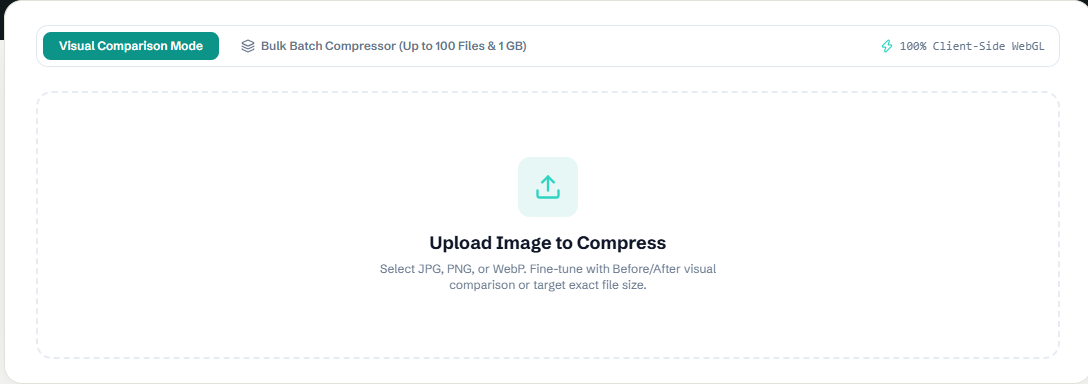
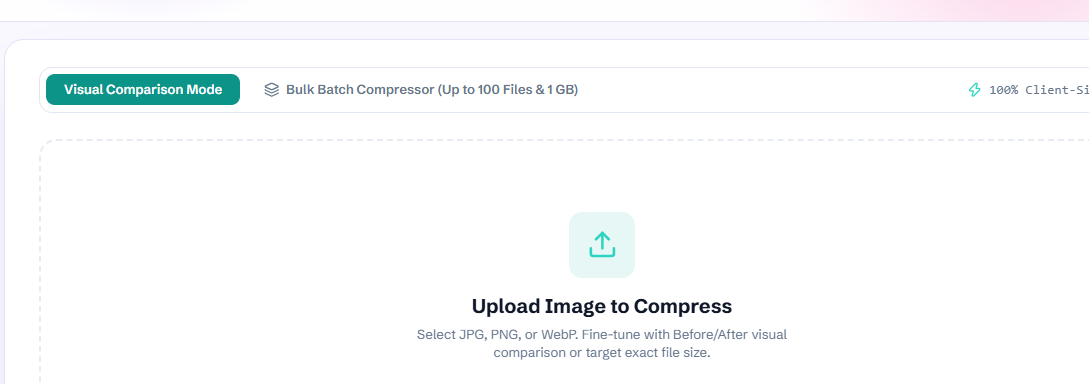
Use real Unsplash tech photos across services, blog, CTA and about; retake hero tool screenshots in new theme

diff --git a/src/app/(public)/page.tsx b/src/app/(public)/page.tsx
@@ -259,10 +259,10 @@ export default async function HomePage() {
               <img src="/shots/json.png" alt="The JSON formatter tool showing formatted output" width={1088} height={515} fetchPriority="high" className="w-full" />
             </div>
             <div className="zq-float absolute -left-4 bottom-8 hidden w-64 overflow-hidden rounded-xl border border-[#1B1340]/15 bg-white shadow-[0_24px_60px_-24px_rgba(27,19,64,.5)] lg:block" style={{ ["--r" as string]: "-3deg" }}>
-              <img src="/shots/compress.png" alt="The image compressor tool" width={1088} height={384} loading="lazy" className="w-full" />
+              <img src="/shots/compress.png" alt="The image compressor tool" width={1088} height={384} loading="lazy" className="h-40 w-full object-cover object-top" />
             </div>
             <div className="zq-float absolute -right-4 top-16 hidden w-56 overflow-hidden rounded-xl border border-[#1B1340]/15 bg-white shadow-[0_24px_60px_-24px_rgba(27,19,64,.5)] lg:block" style={{ ["--r" as string]: "3deg", ["--d" as string]: "-2s" }}>
-              <img src="/shots/qr.png" alt="The QR code generator tool" width={1088} height={640} loading="lazy" className="w-full" />
+              <img src="/shots/qr.png" alt="The QR code generator tool" width={1088} height={640} loading="lazy" className="h-40 w-full object-cover object-top" />
             </div>
           </div>
         </div>
@@ -302,7 +302,7 @@ export default async function HomePage() {
               return (
                 <Reveal as="li" key={hub.slug} delay={(i % 3) * 90}>
                   <Link href={`/services/${hub.slug}`} className="zq-card group relative flex h-full flex-col overflow-hidden">
-                    <TechScene techs={GROUP_TECH[hub.group] || ["React", "Node.js"]} className="h-40 w-full !rounded-none" />
+                    <TechScene group={hub.group} className="h-40 w-full !rounded-none" />
                     <div className="flex flex-1 flex-col p-6 -mt-10 relative">
                     <span className={`zq-chip ${accent.chip} ring-4 ring-white`}>
                       <Icon className="w-6 h-6" aria-hidden="true" />
@@ -355,7 +355,7 @@ export default async function HomePage() {
       <section aria-labelledby="why-heading" className="zq-section">
         <div className="container mx-auto max-w-6xl px-4 sm:px-6 lg:px-8 grid gap-10 lg:grid-cols-2 items-center">
           <Reveal>
-            <TechScene techs={["Next.js", "TypeScript", "Tailwind CSS", "Cloudflare", "Docker"]} className="h-72 w-full lg:h-[26rem]" />
+            <TechScene photo="/photos/u-dev.jpg" techs={["Next.js", "TypeScript", "Tailwind CSS", "Cloudflare", "Docker"]} className="h-72 w-full lg:h-[26rem]" />
           </Reveal>
           <div>
             <h2 id="why-heading" className="zq-display zq-h2">
@@ -438,7 +438,7 @@ export default async function HomePage() {
               </h2>
               <p className="mt-4 text-[17px] leading-relaxed zq-on-dark-muted max-w-md">Founders, growing companies and teams that need extra hands. We start with a call, a plain-language plan and a fixed first step.</p>
             </div>
-            <TechScene techs={["React", "Node.js", "Python", "Docker", "PostgreSQL"]} className="h-56 w-full lg:h-72" />
+            <TechScene photo="/photos/u-team.jpg" techs={["React", "Node.js", "Python", "Docker", "PostgreSQL"]} className="h-56 w-full lg:h-72" />
           </div>
           <ul className="mt-10 grid grid-cols-1 md:grid-cols-3 gap-6">
             {AUDIENCES.map((a, i) => {
@@ -467,8 +467,9 @@ export default async function HomePage() {
       {/* 6b. Apps band with parallax photo */}
       <section aria-labelledby="apps-heading" className="relative isolate overflow-hidden text-white">
         <div aria-hidden="true" className="absolute inset-0 -z-10">
-          <div className="absolute inset-0 bg-gradient-to-br from-[#1B1340] via-[#2D1B69] to-[#5B21B6]" />
-          <OrbRing className="absolute -right-20 -top-16 w-[420px] opacity-60" />
+          {/* eslint-disable-next-line @next/next/no-img-element */}
+          <img src="/photos/u-server.jpg" alt="" width={1200} height={800} loading="lazy" className="absolute inset-0 h-full w-full object-cover" />
+          <div className="absolute inset-0 bg-gradient-to-br from-[#1B1340]/90 via-[#2D1B69]/80 to-[#5B21B6]/70" />
         </div>
         <div className="container mx-auto max-w-6xl px-4 sm:px-6 lg:px-8 zq-section grid gap-10 lg:grid-cols-[1.1fr_0.9fr] items-center">
           <div>
@@ -481,7 +482,7 @@ export default async function HomePage() {
             </a>
           </div>
           <Reveal>
-            <TechScene techs={["Kotlin", "Swift", "Flutter", "React Native"]} className="h-64 w-full" />
+            <TechScene photo="/photos/u-app.jpg" techs={["Kotlin", "Swift", "Flutter", "React Native"]} className="h-64 w-full" />
           </Reveal>
         </div>
       </section>

diff --git a/src/components/kit/tech-scene.tsx b/src/components/kit/tech-scene.tsx
@@ -4,6 +4,19 @@ import { TechLogo } from "@/components/kit/tech-logo";
 
 /* Code-drawn "tech scene" images: dark violet board, grid, glow, and glass tiles carrying real technology logos. */
 
+export const GROUP_IMG: Record<string, string> = {
+  "Game Development": "u-game",
+  "App Development": "u-phone",
+  "Website Development": "u-web",
+  "Custom Software": "u-dev",
+  "Digital Marketing": "u-analytics",
+  "AI & NLP Development": "u-ai",
+  "NFT Development": "u-network",
+  "Staff Augmentation": "u-team",
+  "ERP & CRM Development": "u-laptop",
+};
+const BLOG_IMGS = ["u-dev", "u-office", "u-analytics", "u-laptop", "u-server", "u-network", "u-app", "u-web", "u-aichip", "u-team"];
+
 export const GROUP_TECH: Record<string, string[]> = {
   "Game Development": ["Unity", "Unreal Engine", "Godot", "Solidity"],
   "App Development": ["Kotlin", "Swift", "Flutter", "React Native"],
@@ -27,11 +40,20 @@ const SLOTS: { x: number; y: number; r: number }[] = [
 const BOARD = "relative isolate overflow-hidden bg-gradient-to-br from-[#1B1340] via-[#2D1B69] to-[#5B21B6]";
 const GRID = { backgroundImage: "linear-gradient(rgba(255,255,255,.07) 1px, transparent 1px), linear-gradient(90deg, rgba(255,255,255,.07) 1px, transparent 1px)", backgroundSize: "28px 28px" };
 
-export function TechScene({ techs, className = "", label }: { techs: string[]; className?: string; label?: string }) {
-  const items = techs.slice(0, 5);
+export function TechScene({ techs, group, photo, className = "", label }: { techs?: string[]; group?: string; photo?: string; className?: string; label?: string }) {
+  const list = techs || (group ? GROUP_TECH[group] : undefined) || ["React", "Node.js", "Python"];
+  const img = photo || (group && GROUP_IMG[group] ? `/photos/${GROUP_IMG[group]}.jpg` : undefined);
+  const items = list.slice(0, 5);
   return (
     <div className={`${BOARD} rounded-xl ${className}`} role="img" aria-label={label || `Technologies: ${items.join(", ")}`}>
-      <div aria-hidden="true" className="absolute inset-0 -z-10 opacity-80" style={GRID} />
+      {img && (
+        <>
+          {/* eslint-disable-next-line @next/next/no-img-element */}
+          <img src={img} alt="" width={1200} height={800} loading="lazy" className="absolute inset-0 -z-20 h-full w-full object-cover" />
+          <div aria-hidden="true" className="absolute inset-0 -z-[15] bg-gradient-to-br from-[#1B1340]/85 via-[#2D1B69]/60 to-[#7C3AED]/40" />
+        </>
+      )}
+      <div aria-hidden="true" className="absolute inset-0 -z-10 opacity-60" style={GRID} />
       <div aria-hidden="true" className="absolute -left-10 -top-16 -z-10 h-64 w-64 rounded-full bg-[#8B5CF6]/50 blur-3xl" />
       <div aria-hidden="true" className="absolute -bottom-20 -right-10 -z-10 h-64 w-64 rounded-full bg-[#F472B6]/40 blur-3xl" />
       <svg aria-hidden="true" viewBox="0 0 100 100" preserveAspectRatio="none" className="absolute inset-0 -z-10 h-full w-full">
@@ -77,11 +99,15 @@ export function BlogCover({ seed, category = "", className = "" }: { seed: strin
   const Icon = (CAT_ICON.find(([re]) => re.test(category)) || [null, Code2])[1];
   const pts = Array.from({ length: 5 }, (_, i) => ({ x: 12 + i * 19 + ((h >> (i * 3)) % 8), y: 22 + ((h >> (i * 2 + 1)) % 46) }));
   const hue = h % 3;
+  const photo = `/photos/${BLOG_IMGS[h % BLOG_IMGS.length]}.jpg`;
   const from = ["#1B1340", "#1E1B4B", "#2E1065"][hue];
   const to = ["#6D28D9", "#4F46E5", "#A21CAF"][hue];
   return (
     <div className={`relative isolate overflow-hidden ${className}`} style={{ background: `linear-gradient(135deg, ${from}, ${to})` }} role="img" aria-label={`${category} article`}>
-      <div aria-hidden="true" className="absolute inset-0 -z-10 opacity-80" style={GRID} />
+      {/* eslint-disable-next-line @next/next/no-img-element */}
+      <img src={photo} alt="" width={1200} height={800} loading="lazy" className="absolute inset-0 -z-20 h-full w-full object-cover" />
+      <div aria-hidden="true" className="absolute inset-0 -z-[15]" style={{ background: `linear-gradient(135deg, ${from}E6, ${to}8C)` }} />
+      <div aria-hidden="true" className="absolute inset-0 -z-10 opacity-50" style={GRID} />
       <svg aria-hidden="true" viewBox="0 0 100 60" preserveAspectRatio="none" className="absolute inset-0 -z-10 h-full w-full">
         <polyline points={pts.map((p) => `${p.x},${p.y}`).join(" ")} fill="none" stroke="#C4B5FD" strokeOpacity=".55" strokeWidth=".7" vectorEffect="non-scaling-stroke" />
         {pts.map((p, i) => (

diff --git a/src/components/kit/page-kit.tsx b/src/components/kit/page-kit.tsx
@@ -101,7 +101,8 @@ export function CtaBand({ heading, text, href = "#contact", cta = "Get a quote",
     <section className="zq-section">
       <div className="container mx-auto max-w-6xl px-4 sm:px-6 lg:px-8">
         <div className="relative isolate overflow-hidden rounded-2xl bg-gradient-to-br from-[#7C3AED] to-[#4C1D95] text-white">
-          <OrbRing className="absolute -right-16 -top-10 -z-10 hidden w-[380px] opacity-60 md:block" />
+          {/* eslint-disable-next-line @next/next/no-img-element */}
+          <img src="/photos/u-office.jpg" alt="" width={1200} height={800} loading="lazy" className="absolute inset-y-0 right-0 -z-10 hidden h-full w-1/2 object-cover opacity-35 mix-blend-luminosity md:block" />
           <div className="max-w-xl px-7 py-12 sm:px-12 sm:py-16">
             <h2 className="zq-display text-3xl sm:text-4xl font-extrabold leading-tight">{heading}</h2>
             <p className="mt-4 text-[17px] leading-relaxed text-white/90">{text}</p>

diff --git a/src/components/layout/footer.tsx b/src/components/layout/footer.tsx
@@ -46,6 +46,8 @@ export function Footer() {
       {/* CTA card sits on the light page and overlaps into the dark footer */}
       <div className="container relative z-10 mx-auto -mb-16 max-w-6xl px-4 sm:px-6 lg:px-8">
         <div className="relative overflow-hidden rounded-2xl bg-gradient-to-br from-[#7C3AED] to-[#4C1D95] p-8 text-white shadow-[0_30px_70px_-30px_rgba(27,19,64,.55)] sm:p-12">
+          {/* eslint-disable-next-line @next/next/no-img-element */}
+          <img src="/photos/u-team.jpg" alt="" width={1200} height={800} loading="lazy" className="absolute inset-y-0 right-0 hidden h-full w-1/3 object-cover opacity-30 mix-blend-luminosity lg:block" />
           <div className="relative flex flex-col gap-6 lg:flex-row lg:items-center lg:justify-between lg:pr-[28%]">
             <div className="max-w-xl">
               <h2 className="zq-display text-3xl font-extrabold leading-tight sm:text-4xl">Have a project in mind?</h2>

diff --git a/src/app/(public)/services/[slug]/page.tsx b/src/app/(public)/services/[slug]/page.tsx
@@ -188,7 +188,7 @@ export default async function ServicePage({ params }: Props) {
               {related.map((r) => (
                 <li key={r.slug}>
                   <Link href={`/services/${r.slug}`} className="zq-card zq-card-hover group flex h-full flex-col overflow-hidden">
-                    <TechScene techs={GROUP_TECH[r.group] || ["React", "Node.js"]} className="h-40 w-full !rounded-none" />
+                    <TechScene group={r.group} className="h-40 w-full !rounded-none" />
                     <span className="flex flex-1 flex-col p-5">
                       <span className="text-[18px] font-bold group-hover:text-[#5B21B6]">{r.name}</span>
                       <span className="mt-1.5 flex-1 text-[15px] leading-relaxed text-[#5C5878] line-clamp-3">{r.shortDesc}</span>

diff --git a/src/app/(public)/services/page.tsx b/src/app/(public)/services/page.tsx
@@ -68,7 +68,7 @@ export default async function ServicesPage() {
             <section key={hub.slug} aria-labelledby={`g-${hub.slug}`} className={i % 2 === 0 ? "bg-white" : "bg-[#FAF8FF]"}>
               <div className="container mx-auto max-w-6xl px-4 sm:px-6 lg:px-8 zq-section grid items-center gap-10 lg:grid-cols-2 lg:gap-16">
                 <Reveal className={flip ? "lg:order-2" : ""}>
-                  <TechScene techs={GROUP_TECH[hub.group] || ["React", "Node.js", "Python"]} className="h-72 sm:h-96 shadow-[0_24px_60px_-34px_rgba(76,29,149,.55)]" />
+                  <TechScene group={hub.group} className="h-72 sm:h-96 shadow-[0_24px_60px_-34px_rgba(76,29,149,.55)]" />
                 </Reveal>
                 <div>
                   <span className={`zq-chip ${accent.chip}`}>

diff --git a/src/app/(public)/about/page.tsx b/src/app/(public)/about/page.tsx
@@ -89,6 +89,13 @@ export default async function AboutPage() {
           ))}
         </ul>
 
+        <div className="grid gap-4 sm:grid-cols-3">
+          {["u-team", "u-dev", "u-server"].map((n) => (
+            // eslint-disable-next-line @next/next/no-img-element
+            <img key={n} src={`/photos/${n}.jpg`} alt="" width={1200} height={800} loading="lazy" className="h-48 w-full rounded-xl object-cover" />
+          ))}
+        </div>
+
         <div className="zq-card p-6 sm:p-10">
           <MarkdownRenderer content={content} />
         </div>
